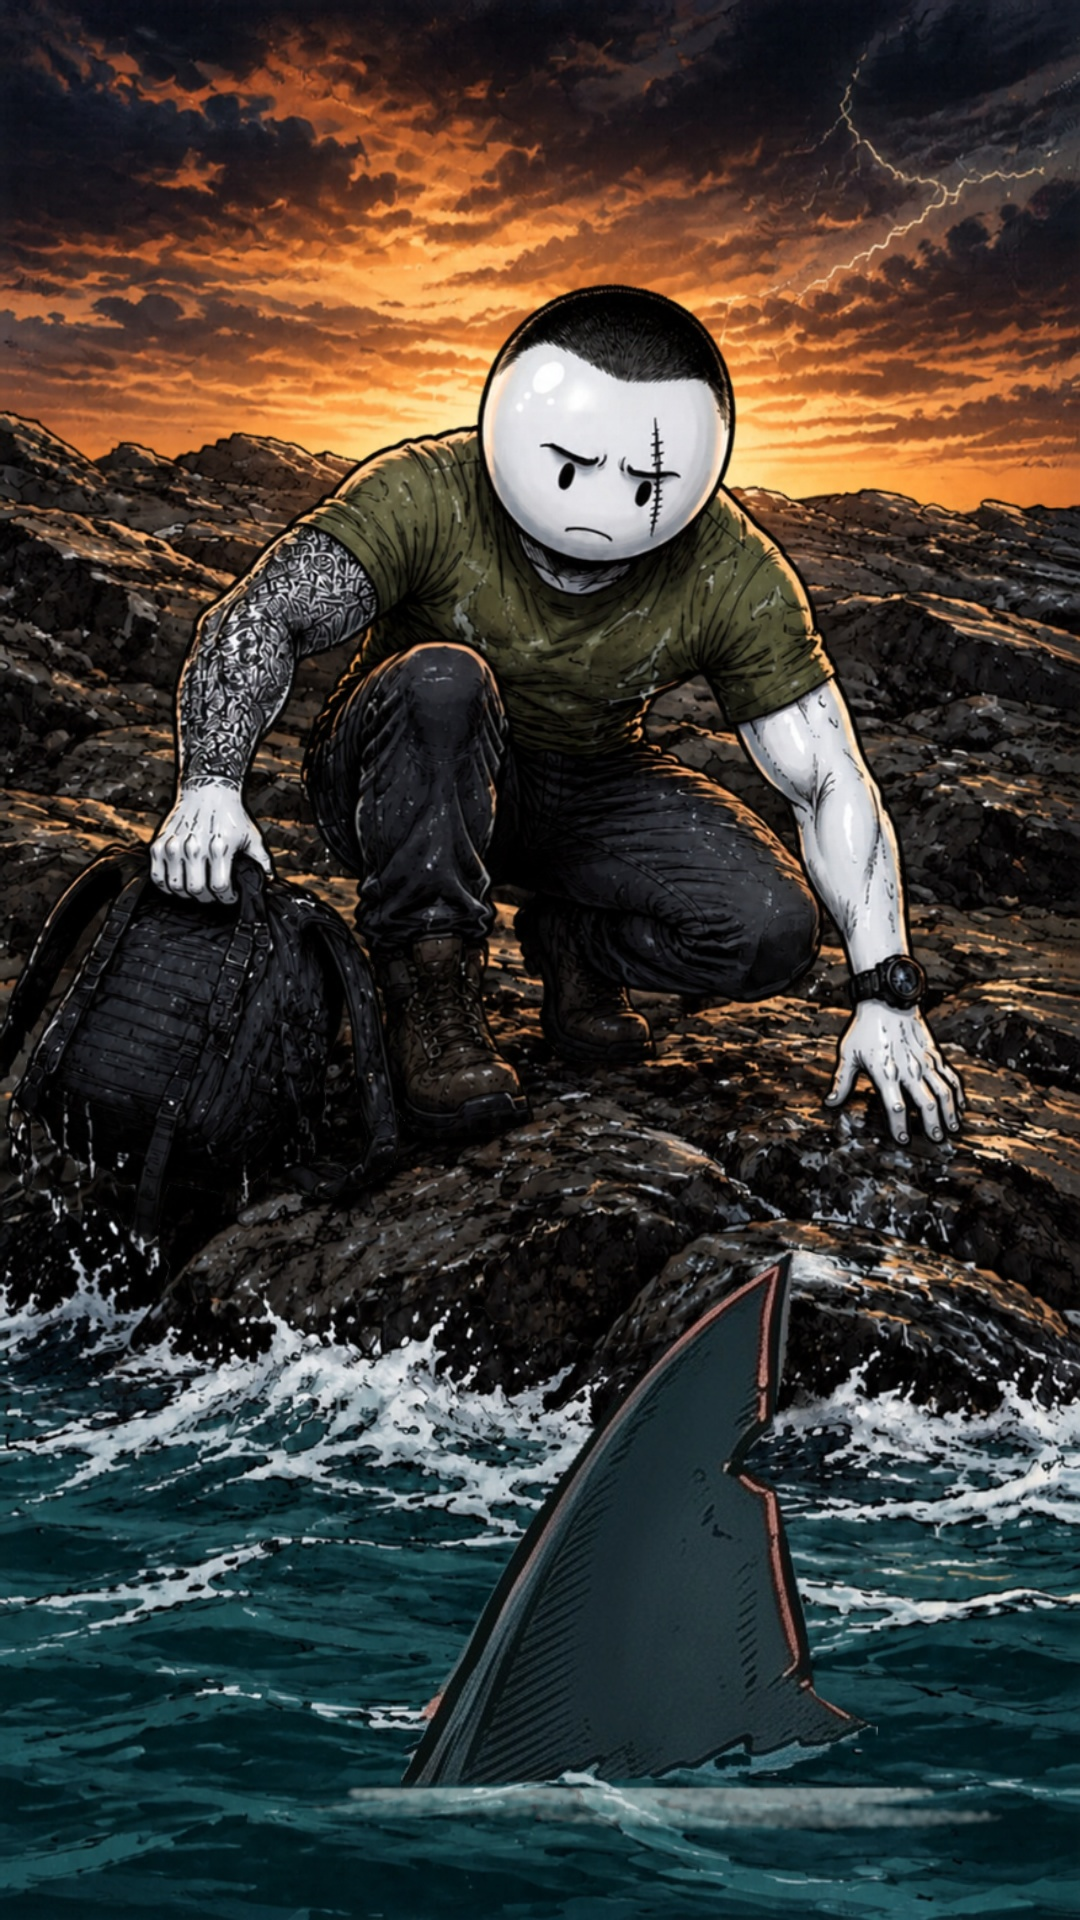
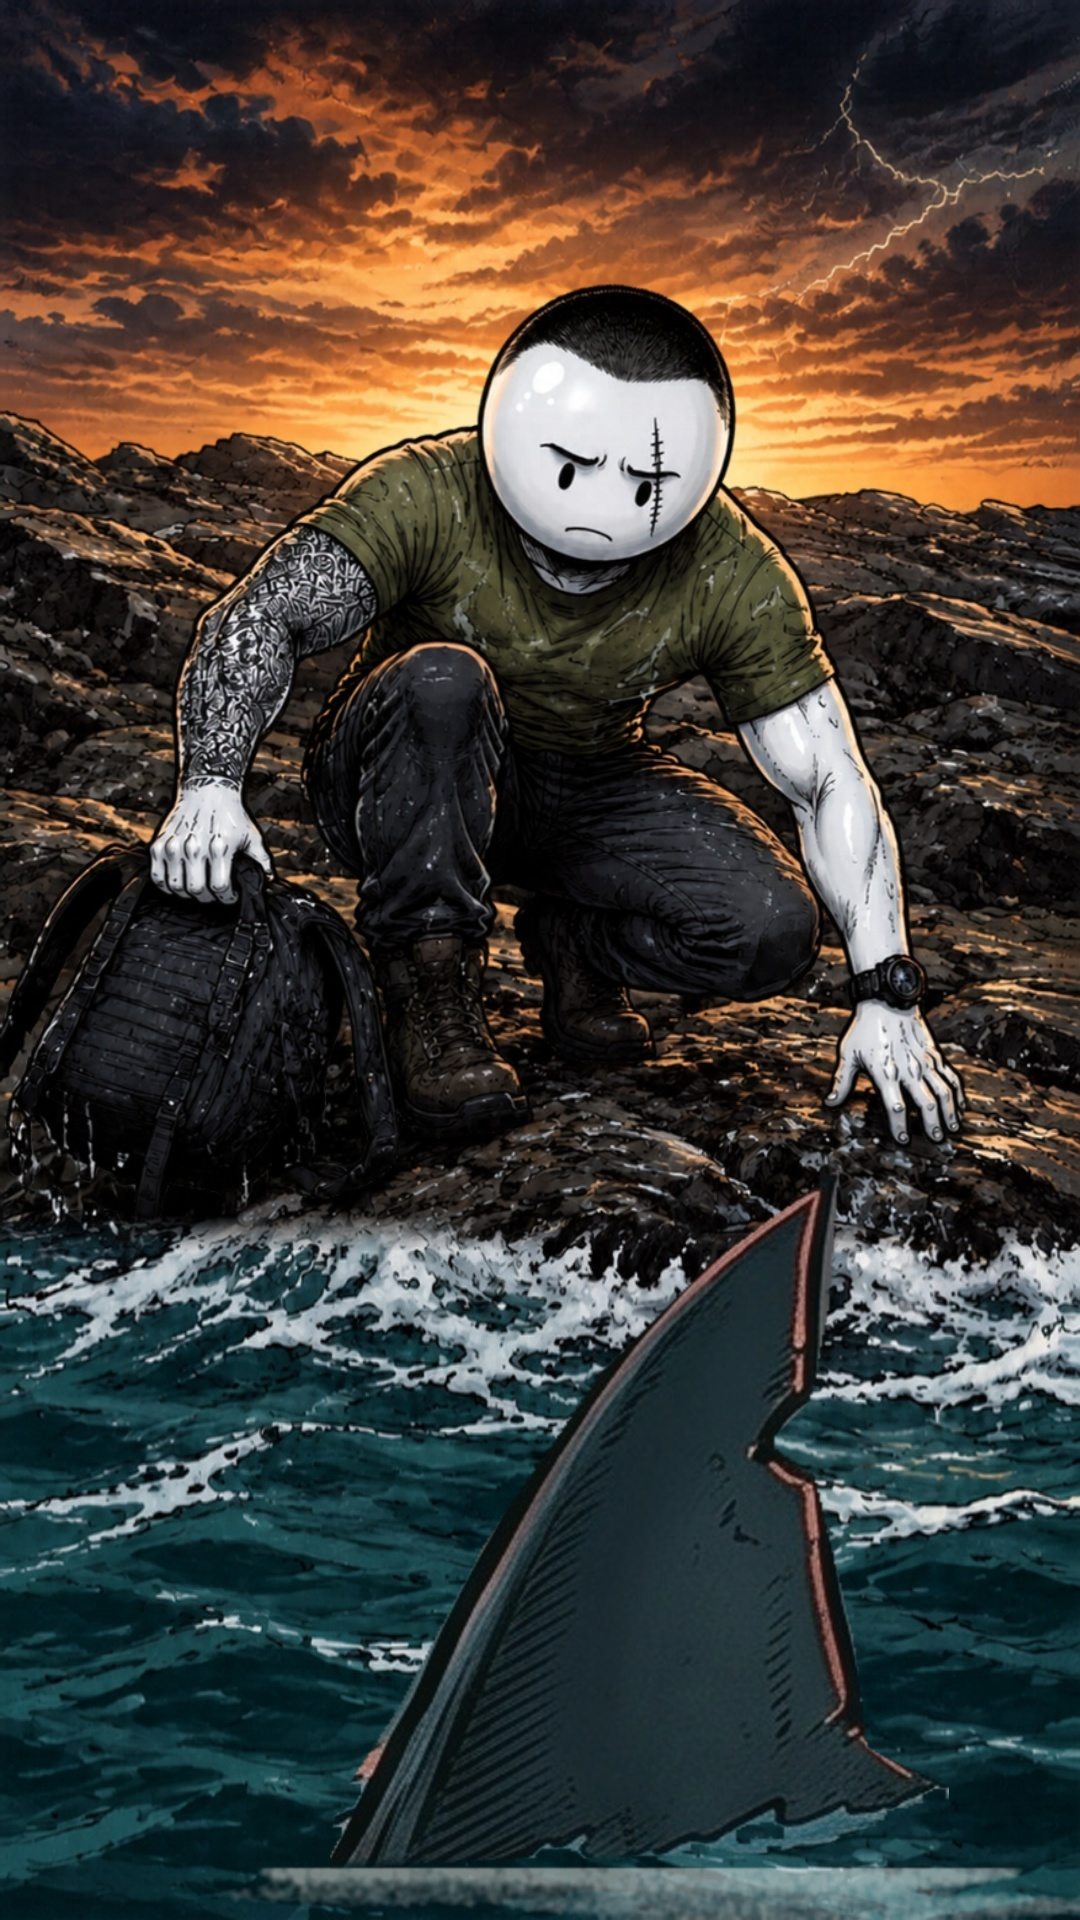
ADA 9: 15 su alanı genişletildi, yüzgeç 700px
Claude-Session: https://claude.ai/code/session_014JxJGGMAcsX945kBrKhihb

Changed region(s): [[0.0, 0.625, 1.0, 1.0]]

diff --git a/hikaye-video/projeler/ada9/15-genislet.py b/hikaye-video/projeler/ada9/15-genislet.py
@@ -1,0 +1,15 @@
+#!/usr/bin/env python3
+"""15: kayalar arasından 190 satırlık bir bant çıkarır (Kemal ve çanta ölçeği bozulmaz), alt kısmı (köpük+su) uzatır;
+böylece yüzgece daha çok su yeri açılır. Kullanım: python3 15-genislet.py <15kemal.jpg> <cikti.jpg>"""
+import sys, cv2, numpy as np
+src = cv2.imread(sys.argv[1]); H, W = src.shape[:2]
+Y0, Y1, X = 1215, 1405, 36            # çıkarılan bant, geçiş yüksekliği
+top = src[:Y0 + X].astype(np.float32); bot = src[Y1 - X:].astype(np.float32)
+# kesişim: top'un son X satırı ile bot'un ilk X satırını karıştır
+seam = np.stack([top[Y0 + i] * (1 - i / X) + bot[i] * (i / X) for i in range(X)])
+joined = np.vstack([top[:Y0], seam, bot[X:]])
+need = H - joined.shape[0]
+lower = joined[Y0 + X:]
+lower = cv2.resize(lower, (W, lower.shape[0] + need), interpolation=cv2.INTER_CUBIC)
+out = np.vstack([joined[:Y0 + X], lower])
+cv2.imwrite(sys.argv[2], np.clip(out, 0, 255).astype(np.uint8), [cv2.IMWRITE_JPEG_QUALITY, 95]); print('tamam', out.shape)

diff --git a/hikaye-video/projeler/ada9/yuzgec-08.py b/hikaye-video/projeler/ada9/yuzgec-08.py
@@ -9,7 +9,7 @@ CFG = {  # boy: yüzgeç yüksekliği, taban: suya girdiği nokta, sil: eski kü
     '07': dict(boy=300, taban=(790, 640), sil=(838, 402, 905, 458), rim=0.55, ton=(60, 75, 85), kopuk=0.55),
     '09a': dict(boy=390, taban=(1243, 960), sil=(1205, 730, 1290, 808), rim=0.5, ton=(75, 80, 85), kopuk=0.7),
     '09b': dict(boy=470, taban=(795, 1290), sil=(690, 1045, 960, 1300), rim=0.0, ton=(70, 90, 20), kopuk=0.95),
-    '15': dict(boy=540, taban=(640, 1790), sil=None, rim=0.7, ton=(70, 80, 40), kopuk=0.5)}
+    '15': dict(boy=700, taban=(640, 1870), sil=None, rim=0.7, ton=(70, 80, 40), kopuk=0.5)}
 
 
 def sprite():
